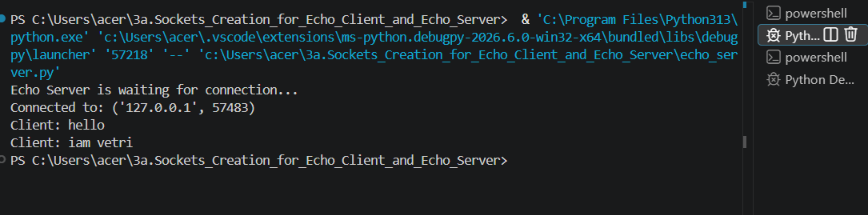
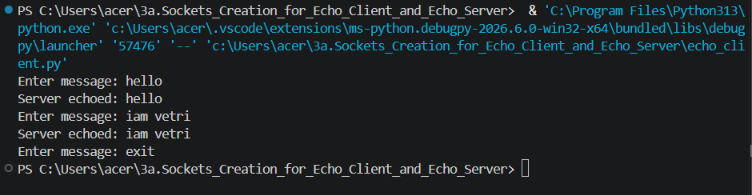
Success

diff --git a/README.md b/README.md
@@ -91,8 +91,9 @@ server_socket.close()
 
 ```
 ## OUPUT
-![alt text](image.png)
-![alt text](image.png)
+
+![alt text](server_output.png)
+![alt text](client_output.png)
 
 ## RESULT
 Thus, the python program for creating Echo Client and Echo Server using TCP Sockets Links 
